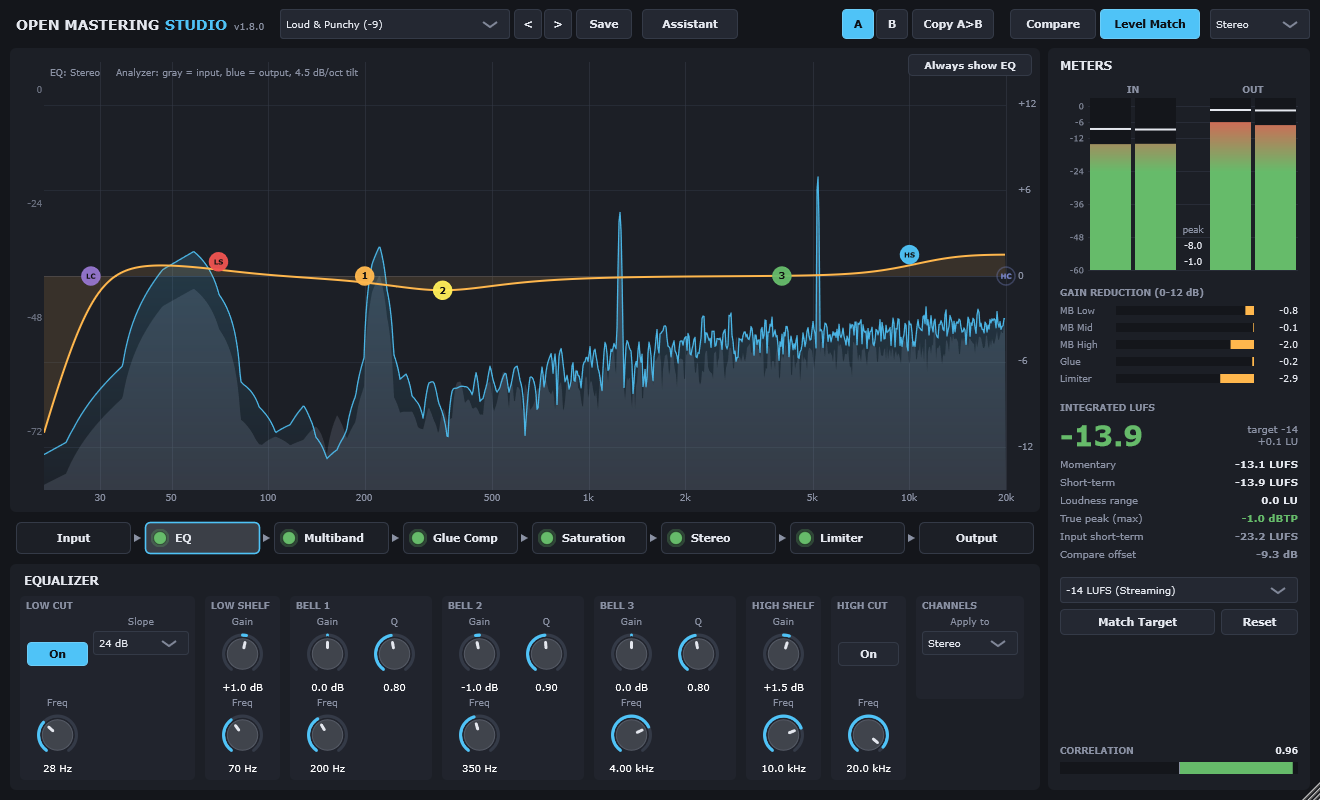
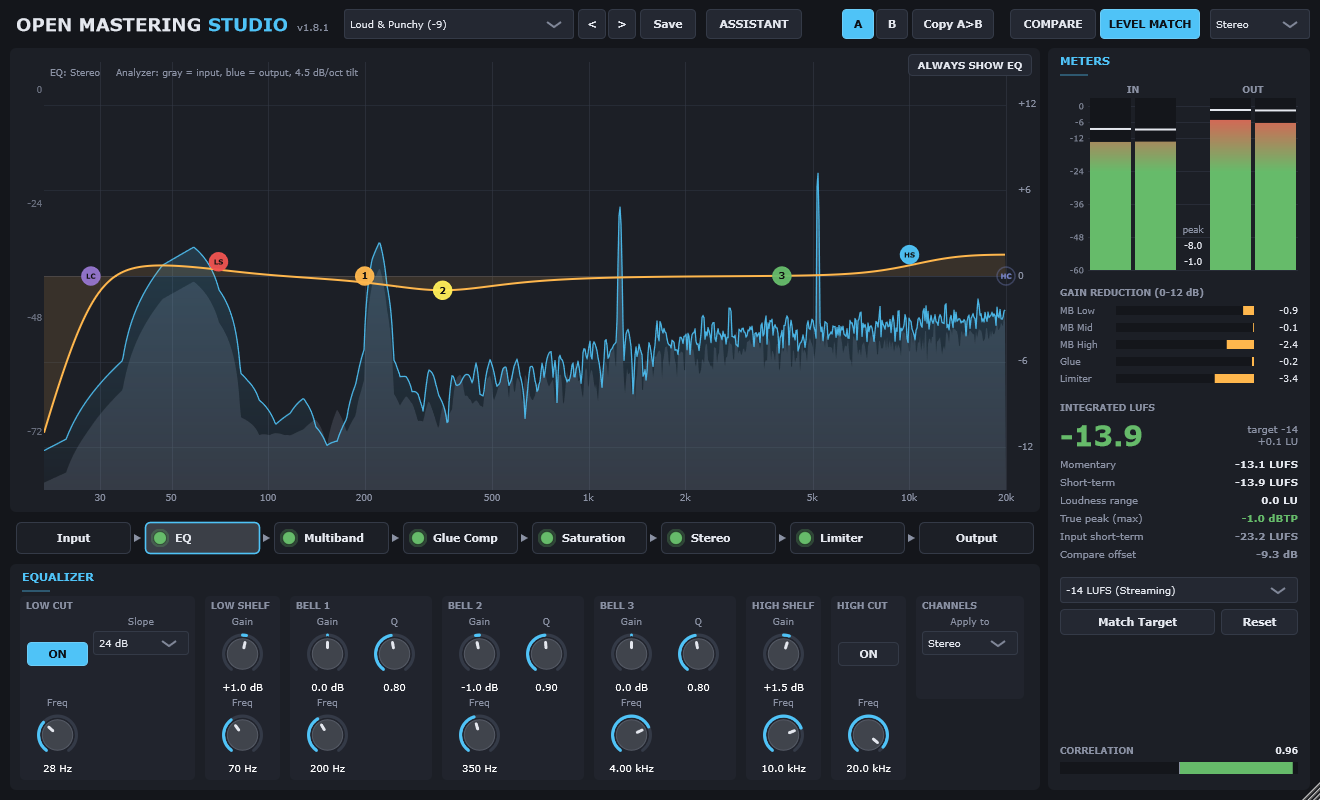
Open Mastering Studio 1.8.1
The look shared with Clean Tone Studio and Open Vocal Studio: a larger
two-tone title with the version beside it, blue panel titles with a short
underline, and switches in capitals (one-shot actions stay in title case).
The Assistant's hints name the buttons as they read. No change to the audio.

diff --git a/Source/PluginEditor.cpp b/Source/PluginEditor.cpp
@@ -109,7 +109,7 @@ ParamControl::ParamControl (AudioProcessorValueTreeState& apvts, const String& i
     if (dynamic_cast<AudioParameterBool*> (p) != nullptr)
     {
         kind = Toggle;
-        button.setButtonText (caption);
+        button.setButtonText (caption.toUpperCase());   // a switch: capitals (one-shot actions use title case)
         button.setClickingTogglesState (true);
         button.setTooltip (p->getName (64));
         bA = std::make_unique<AudioProcessorValueTreeState::ButtonAttachment> (apvts, id, button);
@@ -179,9 +179,7 @@ void ModulePanel::paint (Graphics& g)
 {
     g.setColour (Theme::panel);
     g.fillRoundedRectangle (getLocalBounds().toFloat(), 6.0f);
-    g.setColour (Theme::text);
-    g.setFont (uiFont (14.0f, true));
-    g.drawText (title.toUpperCase(), 14, 6, 300, 20, Justification::centredLeft);
+    drawSectionTitle (g, getLocalBounds(), title.toUpperCase());
 
     for (size_t i = 0; i < groups.size(); ++i)
     {
@@ -874,9 +872,7 @@ void MeterPanel::paint (Graphics& g)
 {
     g.setColour (Theme::panel);
     g.fillRoundedRectangle (getLocalBounds().toFloat(), 6.0f);
-    g.setColour (Theme::text);
-    g.setFont (uiFont (14.0f, true));
-    g.drawText ("METERS", 12, 8, 200, 18, Justification::centredLeft);
+    drawSectionTitle (g, getLocalBounds(), "METERS");
 
     const float ceilDb = proc.apvts.getRawParameterValue (ID::limCeiling)->load();
 
@@ -1338,14 +1334,14 @@ void AssistantPanel::update()
     learnBtn.setToggleState (learning, dontSendNotification);
     const double secs = proc.getLearnedSeconds();
     const String mmss = String ((int) secs / 60) + ":" + String ((int) secs % 60).paddedLeft ('0', 2);
-    learnBtn.setButtonText (learning ? "Stop learning (" + mmss + ")" : secs > 0 ? "Learn again" : "Learn");
+    learnBtn.setButtonText (learning ? "STOP LEARNING (" + mmss + ")" : secs > 0 ? "LEARN AGAIN" : "LEARN");
     if (proc.isFileLoaded())
         sourceText = "Analyzes the whole loaded file:\n" + proc.getLoadedFile().getFileName();
     else if (secs > 0)
         sourceText = "Captured " + mmss + " of audio" + (learning ? " - keep playing, the whole song is best." : ".");
     else
-        sourceText = proc.isStandalone() ? "Open a file in the player above, or press Learn and play live input."
-                                         : "Press Learn, play the song in your DAW (the whole song is best), then stop.";
+        sourceText = proc.isStandalone() ? "Open a file in the player above, or press LEARN and play live input."
+                                         : "Press LEARN, play the song in your DAW (the whole song is best), then stop.";
 
     if (auto r = proc.takeAssistantResult())
         if (! r->cancelled && r->error.isEmpty()) { proc.applyAssistantResult (*r); showResult (*r); }
@@ -1407,9 +1403,7 @@ void AssistantPanel::paint (Graphics& g)
 {
     g.setColour (Theme::panel);
     g.fillRoundedRectangle (getLocalBounds().toFloat(), 6.0f);
-    g.setColour (Theme::text);
-    g.setFont (uiFont (14.0f, true));
-    g.drawText ("MASTER ASSISTANT", 14, 8, 300, 20, Justification::centredLeft);
+    drawSectionTitle (g, getLocalBounds(), "MASTER ASSISTANT");
 
     auto heading = [&g] (const String& t, int x, int y) { g.setColour (Theme::dim); g.setFont (uiFont (11.0f, true)); g.drawText (t, x, y, 300, 14, Justification::centredLeft); };
     heading ("SOURCE", sourceArea.getX(), sourceArea.getY() - 16);
@@ -1763,26 +1757,27 @@ void MasteringAudioProcessorEditor::paintOverChildren (Graphics& g)
 void MasteringAudioProcessorEditor::paint (Graphics& g)
 {
     g.fillAll (Theme::bg);
-    // "OPEN MASTERING" + "STUDIO" (accent) + version, straight from the build settings
+    // "OPEN MASTERING" + "STUDIO" (accent) + version, straight from the build settings. Drawn the same way
+    // in Open Mastering Studio, Open Vocal Studio and Clean Tone Studio (22 px bold, version 12 px beside it).
     const auto titleFont = uiFont (TitleFontSize, true);
     const String first = "OPEN MASTERING ";
     const int firstW = GlyphArrangement::getStringWidthInt (titleFont, first);
     const int studioW = GlyphArrangement::getStringWidthInt (titleFont, "STUDIO");
     g.setFont (titleFont);
     g.setColour (Theme::text);
-    g.drawText (first, 16, 10, firstW + 4, 28, Justification::centredLeft);
+    g.drawText (first, 16, 4, firstW + 4, 40, Justification::centredLeft);
     g.setColour (Theme::accent);
-    g.drawText ("STUDIO", 16 + firstW, 10, studioW + 4, 28, Justification::centredLeft);
+    g.drawText ("STUDIO", 16 + firstW, 4, studioW + 4, 40, Justification::centredLeft);
     g.setColour (Theme::dim);
-    g.setFont (uiFont (11.5f));
-    g.drawText (versionText(), 16 + firstW + studioW + 7, 17, 60, 18, Justification::centredLeft);
+    g.setFont (uiFont (VersionFontSize));
+    g.drawText (versionText(), 16 + firstW + studioW + 8, 7, 80, 40, Justification::centredLeft);   // on the title's baseline
 }
 
 Rectangle<int> MasteringAudioProcessorEditor::titleArea()
 {
     const auto titleFont = uiFont (TitleFontSize, true);
     const int w = GlyphArrangement::getStringWidthInt (titleFont, "OPEN MASTERING STUDIO")
-                + 7 + GlyphArrangement::getStringWidthInt (uiFont (11.5f), versionText());
+                + 8 + GlyphArrangement::getStringWidthInt (uiFont (VersionFontSize), versionText());
     return { 10, 6, 6 + w + 6, 36 };
 }
 
@@ -1917,8 +1912,8 @@ void MasteringAudioProcessorEditor::timerCallback()
         }
         wasBusy = busy;
         const bool notice = Time::getMillisecondCounterHiRes() < noticeUntil;
-        const String btnText = busy ? "Analyzing " + String (roundToInt (proc.getAssistantProgress() * 100.0f)) + "%"
-                             : learning ? String::fromUTF8 ("\xe2\x97\x8f Learning") : String ("Assistant");
+        const String btnText = busy ? "ANALYZING " + String (roundToInt (proc.getAssistantProgress() * 100.0f)) + "%"
+                             : learning ? String::fromUTF8 ("\xe2\x97\x8f LEARNING") : String ("ASSISTANT");
         const Colour btnColour = busy ? Theme::warm.withAlpha (0.55f)
                                : learning ? Theme::red.withAlpha ((blink / 15) % 2 == 0 ? 0.7f : 0.35f) : Theme::panel2;
         if (assistantBtn.getButtonText() != btnText) assistantBtn.setButtonText (btnText);

diff --git a/Source/PluginEditor.h b/Source/PluginEditor.h
@@ -33,6 +33,18 @@ inline juce::Font uiFont (float h, bool bold = false)
     return juce::Font (juce::FontOptions (h, bold ? juce::Font::bold : juce::Font::plain));
 }
 
+// A panel title: accent colour, 13.5 px bold, with a short underline. The same style as the section
+// titles of Clean Tone Studio and Open Vocal Studio.
+inline void drawSectionTitle (juce::Graphics& g, juce::Rectangle<int> panel, const juce::String& title)
+{
+    const auto band = panel.toFloat().reduced (12.0f, 0.0f).removeFromTop (26.0f);
+    g.setColour (Theme::accent);
+    g.setFont (uiFont (13.5f, true));
+    g.drawText (title, band, juce::Justification::centredLeft);
+    g.setColour (Theme::accent.withAlpha (0.35f));
+    g.fillRect (band.getX(), band.getBottom(), 28.0f, 2.0f);
+}
+
 class MasterLookAndFeel : public juce::LookAndFeel_V4
 {
 public:
@@ -203,7 +215,7 @@ private:
     void openFile();
     void exportFile();
     MasteringAudioProcessor& proc;
-    juce::TextButton openBtn { "Open..." }, playBtn { "Play" }, stopBtn { "Stop" }, loopBtn { "Loop" }, ejectBtn { "Eject" }, exportBtn { "Export Master..." };
+    juce::TextButton openBtn { "Open..." }, playBtn { "Play" }, stopBtn { "Stop" }, loopBtn { "LOOP" }, ejectBtn { "Eject" }, exportBtn { "Export Master..." };
     juce::ComboBox format;
     juce::AudioThumbnailCache cache { 4 };
     juce::AudioThumbnail thumb;
@@ -231,8 +243,8 @@ private:
     MasteringAudioProcessor& proc;
     juce::ComboBox curveBox, styleBox;
     juce::Slider amount;
-    juce::TextButton refLoudBtn { "Use their loudness" };
-    juce::TextButton learnBtn { "Learn" }, addRefBtn { "Add..." }, removeRefBtn { "Remove" }, listenBtn { "Listen" };
+    juce::TextButton refLoudBtn { "USE THEIR LOUDNESS" };
+    juce::TextButton learnBtn { "LEARN" }, addRefBtn { "Add..." }, removeRefBtn { "Remove" }, listenBtn { "LISTEN" };
     juce::TextButton runBtn { "Analyze & Apply" }, cancelBtn { "Cancel" }, revertBtn { "Revert" };
     juce::TextEditor notes;
     std::unique_ptr<juce::FileChooser> chooser;
@@ -263,7 +275,7 @@ public:
     void mouseMove (const juce::MouseEvent&) override;
     static juce::String aboutText();                      // copyright, license and no-warranty notice
     static juce::Rectangle<int> titleArea();             // the title + version (clickable), measured from the fonts
-    static constexpr float TitleFontSize = 17.0f;
+    static constexpr float TitleFontSize = 22.0f, VersionFontSize = 12.0f;   // shared with Open Vocal Studio and Clean Tone Studio
 
 private:
     void timerCallback() override;
@@ -278,9 +290,9 @@ private:
     juce::TooltipWindow tooltips { this, 600 };
 
     juce::ComboBox presetBox;
-    juce::TextButton prevBtn { "<" }, nextBtn { ">" }, saveBtn { "Save" }, assistantBtn { "Assistant" };
+    juce::TextButton prevBtn { "<" }, nextBtn { ">" }, saveBtn { "Save" }, assistantBtn { "ASSISTANT" };
     juce::TextButton aBtn { "A" }, bBtn { "B" }, copyBtn { "Copy A>B" };
-    juce::TextButton compareBtn { "Compare" }, matchBtn { "Level Match" };
+    juce::TextButton compareBtn { "COMPARE" }, matchBtn { "LEVEL MATCH" };
     juce::ComboBox monitorBox;
     std::unique_ptr<juce::AudioProcessorValueTreeState::ButtonAttachment> compareA, matchA;
     std::unique_ptr<juce::AudioProcessorValueTreeState::ComboBoxAttachment> monitorA;
@@ -292,7 +304,7 @@ private:
     GlueView glueView;
     SaturationView satView;
     LimiterView limView;
-    juce::TextButton pinEqBtn { "Always show EQ" };
+    juce::TextButton pinEqBtn { "ALWAYS SHOW EQ" };
     AssistantPanel assistantPanel;
     juce::Rectangle<int> chartArea;
     int blink = 0;

diff --git a/Source/PluginProcessor.cpp b/Source/PluginProcessor.cpp
@@ -734,7 +734,7 @@ void MasteringAudioProcessor::startLearn()
     capture.setSize (2, cap, false, false, true);
     captureWritten = 0;
     capturing = true;
-    setStatus ("Learning - play the song, then press Learn again.");
+    setStatus ("Learning - play the song, then press STOP LEARNING.");
 }
 
 void MasteringAudioProcessor::addReferenceFile (const juce::File& file)
@@ -823,8 +823,8 @@ bool MasteringAudioProcessor::startAssistant (juce::String& error)
         const int n = captureWritten.load();
         if (n < (int) (10.0 * currentSampleRate))
         {
-            error = isStandalone() ? "Open a file first, or press Learn and play at least 10 seconds of the song."
-                                   : "Press Learn, play the song (at least 10 seconds - the whole song is best), then press Learn again.";
+            error = isStandalone() ? "Open a file first, or press LEARN and play at least 10 seconds of the song."
+                                   : "Press LEARN, play the song (at least 10 seconds - the whole song is best), then press STOP LEARNING.";
             return false;
         }
         captured = std::make_shared<juce::AudioBuffer<float>> (2, n);

diff --git a/README.md b/README.md
@@ -36,6 +36,13 @@ The standalone `.exe` is a single file; copy it anywhere.
 
 The version shows next to the **OPEN MASTERING STUDIO** title in both the app and the plugin, and in the standalone window's title bar. Windows shows the same version under right-click → Properties → Details for both files. Before 1.6.2, those Properties wrongly said 1.2.0.
 
+### 1.8.1
+
+- **A look shared with Clean Tone Studio and Open Vocal Studio.** The title (OPEN MASTERING in white, STUDIO in blue) is larger, with the version right after it. Panel titles (EQUALIZER, METERS, MASTER ASSISTANT and the rest) are blue with a short underline.
+- **Buttons follow one rule in all three:** buttons that stay lit are in capitals (ON, COMPARE, LEVEL MATCH, ASSISTANT, ALWAYS SHOW EQ, LOOP, LEARN, LISTEN, BYPASS, SOLO, LIN. PHASE and the other switches); buttons that do something once are not (Save, Copy A>B, Open..., Export Master..., Analyze & Apply). The Assistant's hints name the buttons as they read: "press LEARN", "press STOP LEARNING".
+- At the smallest window size (1200 px wide) the preset box is narrower, so a long preset name can wrap onto two lines.
+- No change to the audio; sessions and presets load as before.
+
 ### 1.8.0
 
 - **Renamed Open Mastering Studio** to avoid confusion with other products. It's the same plugin: its plugin ID hasn't changed, so DAW sessions made with "Mastering Studio" load it as before.
@@ -95,12 +102,12 @@ Click a module in the chain strip to edit it, and use its LED to switch it on or
 |---|---|
 | **Input** | Trim into the chain. |
 | **EQ** | Low cut (12/24/48 dB/oct), low shelf, 3 bells, high shelf, high cut. Can work on Stereo, Mid only or Side only. Drag the points on the analyzer. They're labeled like the panel: **LC** low cut, **LS** low shelf, **1–3** bells, **HS** high shelf, **HC** high cut. You can also scroll on a bell to change its Q, and double-click to reset the gain (or to switch a cut filter on or off). The filters are modulation-safe, so sweeping them doesn't zip. |
-| **Multiband** | 3 phase-aligned Linkwitz-Riley bands (they sum flat), each with threshold, ratio, attack, release, gain, solo and bypass. **Lin. Phase** switches to linear-phase crossovers with the same 24 dB/oct slopes but no phase shift at the band edges (adds about 90 ms of latency). **Auto Rel.** makes the release program-dependent: fast after short peaks, slow on sustained material, so dense passages don't pump. |
+| **Multiband** | 3 phase-aligned Linkwitz-Riley bands (they sum flat), each with threshold, ratio, attack, release, gain, solo and bypass. **LIN. PHASE** switches to linear-phase crossovers with the same 24 dB/oct slopes but no phase shift at the band edges (adds about 90 ms of latency). **AUTO REL.** makes the release program-dependent: fast after short peaks, slow on sustained material, so dense passages don't pump. |
 | **Glue Comp** | Stereo-linked soft-knee bus compressor with a sidechain low cut and a parallel mix. |
 | **Saturation** | 8× oversampled. **Tape**, **Tube** and **Soft Clip** are fixed curves. **Tape (Modeled)** is a magnetic hysteresis model (Jiles-Atherton) with record pre-emphasis and playback de-emphasis and a gentle head bump: the highs saturate first, and the color depends on level and on what the music just did. **Tube (Modeled)** shifts its bias with the signal, so loud passages "bloom" with more even harmonics while quiet ones stay clean. The small-signal level stays the same, so Drive changes the color rather than the volume. 8× keeps audible aliasing below −83 dB at moderate drive (2× measured about −31 dB). |
-| **Stereo** | Mid/side width in 3 bands (0–200 %). **Mono Bass** removes the stereo part below its frequency (24 dB/oct, 40–300 Hz). **Mono-Safe** turns the widening down whenever it would push the left/right correlation below zero (it never narrows below what the mix already had). **Lin. Phase** uses linear-phase crossovers: the side is shaped by one zero-phase filter and the mid is only delayed (adds about 90 ms of latency). |
+| **Stereo** | Mid/side width in 3 bands (0–200 %). **Mono Bass** removes the stereo part below its frequency (24 dB/oct, 40–300 Hz). **MONO-SAFE** turns the widening down whenever it would push the left/right correlation below zero (it never narrows below what the mix already had). **LIN. PHASE** uses linear-phase crossovers: the side is shaped by one zero-phase filter and the mid is only delayed (adds about 90 ms of latency). |
 | **Limiter** | Look-ahead brickwall limiter with two styles. **Classic** (1.5 ms look-ahead, one release time) is the 1.6 limiter. **Transparent** uses 3 ms of look-ahead, a program-dependent release (a slow follower holds the average reduction, so the gain recovers fast after a lone peak but does not pump on dense material) and two cascaded smoothing stages, which give an S-shaped gain curve with no corners. Measured on an 80 Hz tone pushed 10 dB into the limiter: −57 dB THD versus −40 dB for Classic. Both use 8× true-peak detection (48-tap interpolation), followed by a second, gentle true-peak stage with a 96-tap detector that catches the small overs the main limiter's own gain changes create. Measured against exact waveform reconstruction, realistic masters hold −0.99 dBTP at a −1.0 ceiling with 6–18 dB of limiting. |
-| **Output** | Final trim (which can only lower the level), plus TPDF dither for 24 or 16 bit. **Shaping** at 44.1/48 kHz uses Wannamaker's 9th-order psychoacoustic (F-weighted) curve: about 18 dB less dither noise in the 1–6 kHz range where hearing is most sensitive, with the excess moved above 15 kHz. At 88.2 kHz and up it moves the noise above 20 kHz. |
+| **Output** | Final trim (which can only lower the level), plus TPDF dither for 24 or 16 bit. **SHAPING** at 44.1/48 kHz uses Wannamaker's 9th-order psychoacoustic (F-weighted) curve: about 18 dB less dither noise in the 1–6 kHz range where hearing is most sensitive, with the excess moved above 15 kHz. At 88.2 kHz and up it moves the noise above 20 kHz. |
 
 Latency is 354–458 samples depending on sample rate (about 7.5–8 ms at 44.1/48 kHz). It comes from the limiter look-ahead, the true-peak stages and the saturation oversampling. Each linear-phase option adds about 90 ms, and the Transparent limiter adds 1.5 ms. Switching one of these while audio plays gives a short, smooth gap (the output fades out, the new delay is reported to the host, and the audio fades back in). It's reported to the host, so your DAW compensates for it automatically, and the test suite confirms the reported value matches the measured delay exactly.
 
@@ -124,7 +131,7 @@ The rest of the plugin adds about 0.4 µs per sample at Loud & Punchy settings. 
 
 ## Module views
 
-The chart above the chain strip follows the module you select. Turn on **Always show EQ** to keep the EQ curve there instead.
+The chart above the chain strip follows the module you select. Turn on **ALWAYS SHOW EQ** to keep the EQ curve there instead.
 
 | Module | What the chart shows |
 |---|---|
@@ -147,8 +154,8 @@ The views run from the same lock-free, allocation-free data feed as the meters, 
 
 ## Comparing honestly
 
-- **Compare** plays the unprocessed input, time-aligned.
-- With **Level Match** on, the input plays at the same loudness as the master, measured continuously, so you judge tone rather than volume.
+- **COMPARE** plays the unprocessed input, time-aligned.
+- With **LEVEL MATCH** on, the input plays at the same loudness as the master, measured continuously, so you judge tone rather than volume.
 - **A / B** are two complete settings slots, and **Copy A>B** duplicates the current one.
 - **Monitor** lets you listen in Mono, Side only, Left or Right. It changes only what you hear, not the meters.
 
@@ -208,14 +215,14 @@ Your DAW's program/preset display follows along:
 
 ## Master Assistant
 
-Click **Assistant** in the top bar. While Learn is capturing, that button turns into a blinking red **● Learning**, and a badge on the chart shows how much has been captured.
+Click **ASSISTANT** in the top bar. While Learn is capturing, that button turns into a blinking red **● LEARNING**, and a badge on the chart shows how much has been captured.
 
 While **Analyze & Apply** runs, a badge on the chart shows **ANALYZING & APPLYING** with a percentage, the current step and a progress bar, and the top-bar button reads **Analyzing NN%**. When it finishes, a notice appears for a few seconds: green **✓ Settings applied** with the new settings' name, or red/gray if it couldn't run or was canceled. The assistant listens to your track and sets up the whole chain as a starting point for a clean, clear, dynamic and loud master. Everything it chooses lands on the normal controls, so you can keep adjusting. **Revert** puts back exactly what you had before.
 
 ### 1. Give it the track
 
 - **Standalone app:** load the file in the player and the assistant analyzes the whole file.
-- **Plugin, or live input:** press **Learn**, play the song (the whole song is best, at least 10 seconds), then press Learn again. Silence is skipped, and up to about 5 minutes is captured.
+- **Plugin, or live input:** press **LEARN**, play the song (the whole song is best, at least 10 seconds), then press **STOP LEARNING**. Silence is skipped, and up to about 5 minutes is captured.
 
 ### 2. Choose a target
 
@@ -272,7 +279,7 @@ If reaching the loudness would need more limiting than the style allows, the ass
 
 ### 3. Reference tracks
 
-Click **Add…** or drop audio files onto the Assistant panel. Each reference is analyzed once, and its profile (tonal balance, loudness, dynamics, width) is saved with your session or project. Select a reference and press **Listen** to hear it in place of your master at the same loudness, so you compare tone and dynamics rather than volume. Turn on **Use their loudness** to aim for the references' loudness instead of the style's. It's still capped to protect dynamics.
+Click **Add…** or drop audio files onto the Assistant panel. Each reference is analyzed once, and its profile (tonal balance, loudness, dynamics, width) is saved with your session or project. Select a reference and press **LISTEN** to hear it in place of your master at the same loudness, so you compare tone and dynamics rather than volume. Turn on **USE THEIR LOUDNESS** to aim for the references' loudness instead of the style's. It's still capped to protect dynamics.
 
 ### What it does
 

diff --git a/Reports/measurements.md b/Reports/measurements.md
@@ -81,13 +81,13 @@ Measured independently of the limiter's own detector. *Exact* is near-ideal band
 
 | Module | 48 kHz | 96 kHz |
 |---|---|---|
-| EQ (all bands active) | 0.32 % | 0.60 % |
-| Multiband compressor | 0.34 % | 0.55 % |
-| Glue compressor | 0.12 % | 0.21 % |
-| Saturation (8x oversampled, while on) | 3.53 % | 6.59 % |
-| Stereo imager | 0.15 % | 0.28 % |
-| Limiter (true peak) | 0.88 % | 1.71 % |
-| Loudness meters (in, and out with true peak) | 0.50 % | 1.03 % |
-| Whole plugin (processBlock, Loud & Punchy) | 5.55 % | 11.28 % |
+| EQ (all bands active) | 0.30 % | 0.60 % |
+| Multiband compressor | 0.32 % | 0.55 % |
+| Glue compressor | 0.11 % | 0.21 % |
+| Saturation (8x oversampled, while on) | 3.24 % | 6.55 % |
+| Stereo imager | 0.13 % | 0.26 % |
+| Limiter (true peak) | 0.82 % | 1.66 % |
+| Loudness meters (in, and out with true peak) | 0.49 % | 0.98 % |
+| Whole plugin (processBlock, Loud & Punchy) | 5.50 % | 10.79 % |
 
 The limiter row includes the second true-peak stage. Switched-off modules keep running in the background (so switching them on never clicks), except saturation, which rests after half a second off. The whole-plugin figure uses Loud & Punchy, which has saturation on.
